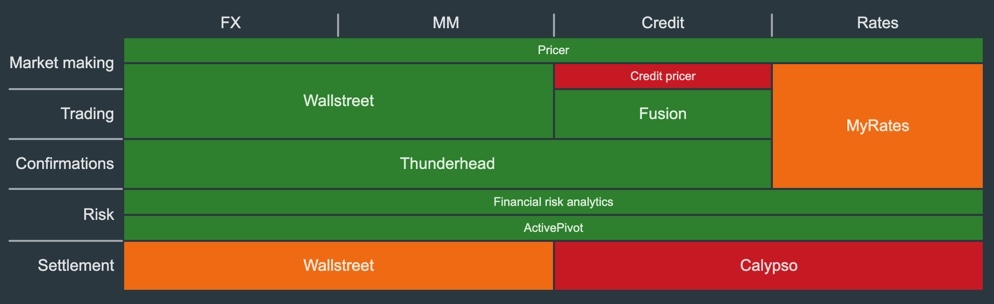
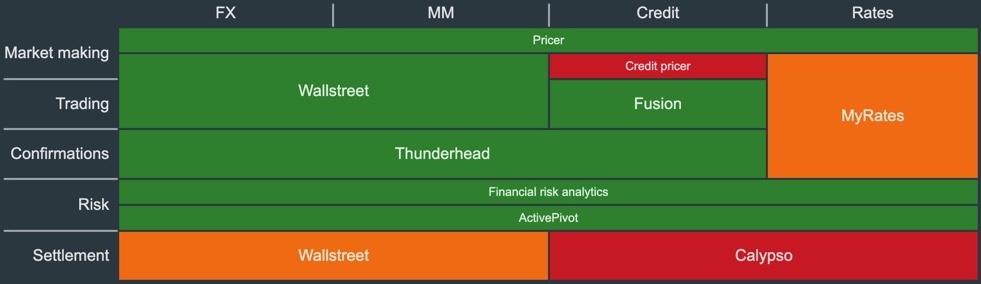
Pre-load a static image first, then replace with generated

diff --git a/index.html b/index.html
@@ -116,11 +116,15 @@
 					functionallity to optimise
 					the axes ordering for maximum joined cells.</p>
 				<table id="landscapeTable">
+					<tr>
+						<td>
+							<img src="images/landscape_map.jpg" />
+						</td>
+					</tr>
 				</table>
 				<p>For a more in-depth example, including a time-dimension, see the <a href="/landscape">project
 						page</a>.</p>
-				<p>For the source code, see the <a href="https://github.com/steelbreeze/landscape"><i
-							class="fab fa-github"></i>&nbsp;GitHub
+				<p><a href="https://github.com/steelbreeze/landscape"><i class="fab fa-github"></i>&nbsp;GitHub
 						repository.</a></p>
 			</article>
 		</div>
@@ -128,8 +132,9 @@
 	<main>
 		<div class="content">
 			<article>
-				<h2><a href="/state">Finite state machines</a></h2>
-				<p>Executable finite state machines.</p>
+				<h2><a href="/state">Executable finite state machines</a></h2>
+				<p>Finite state machines are a staple of computer science theory, yet this rigorous analysis discipline
+					rarely finds its way into application code. The last project I ran used executable finite state machines in order to manage its business process as it had a wider variety of external event sources with non-deterministic sequencing of events.</p>
 				<p><a href="https://github.com/steelbreeze/state"><i class="fab fa-github"></i>&nbsp;GitHub
 						repository.</a></p>
 			</article>
